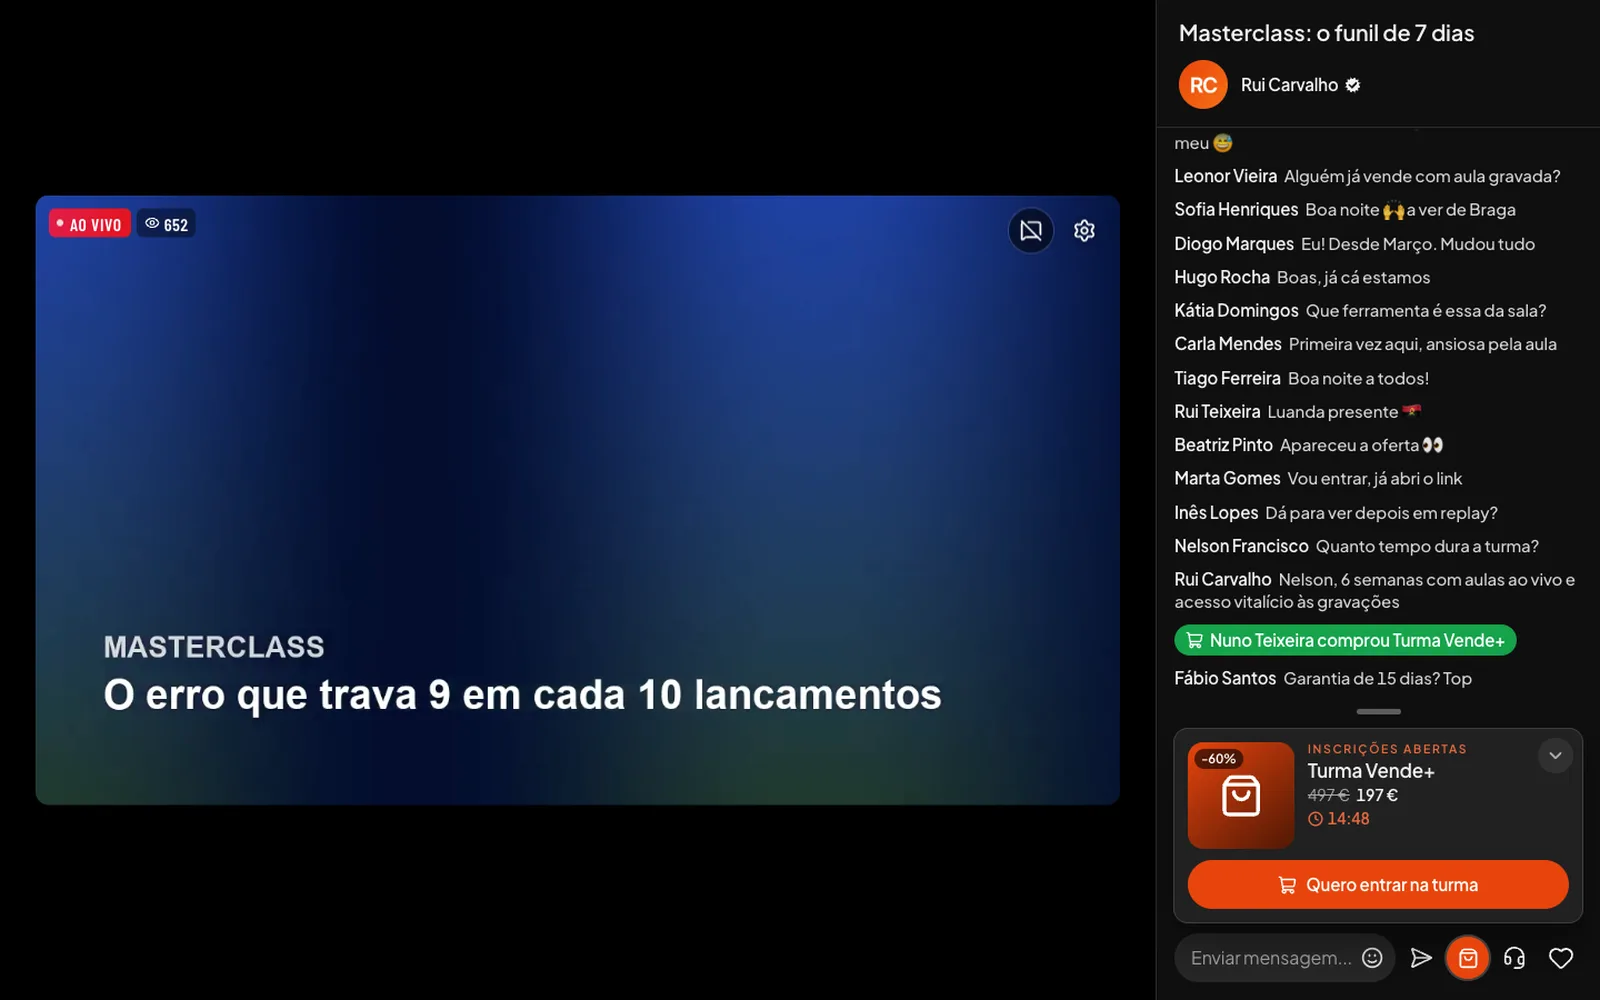
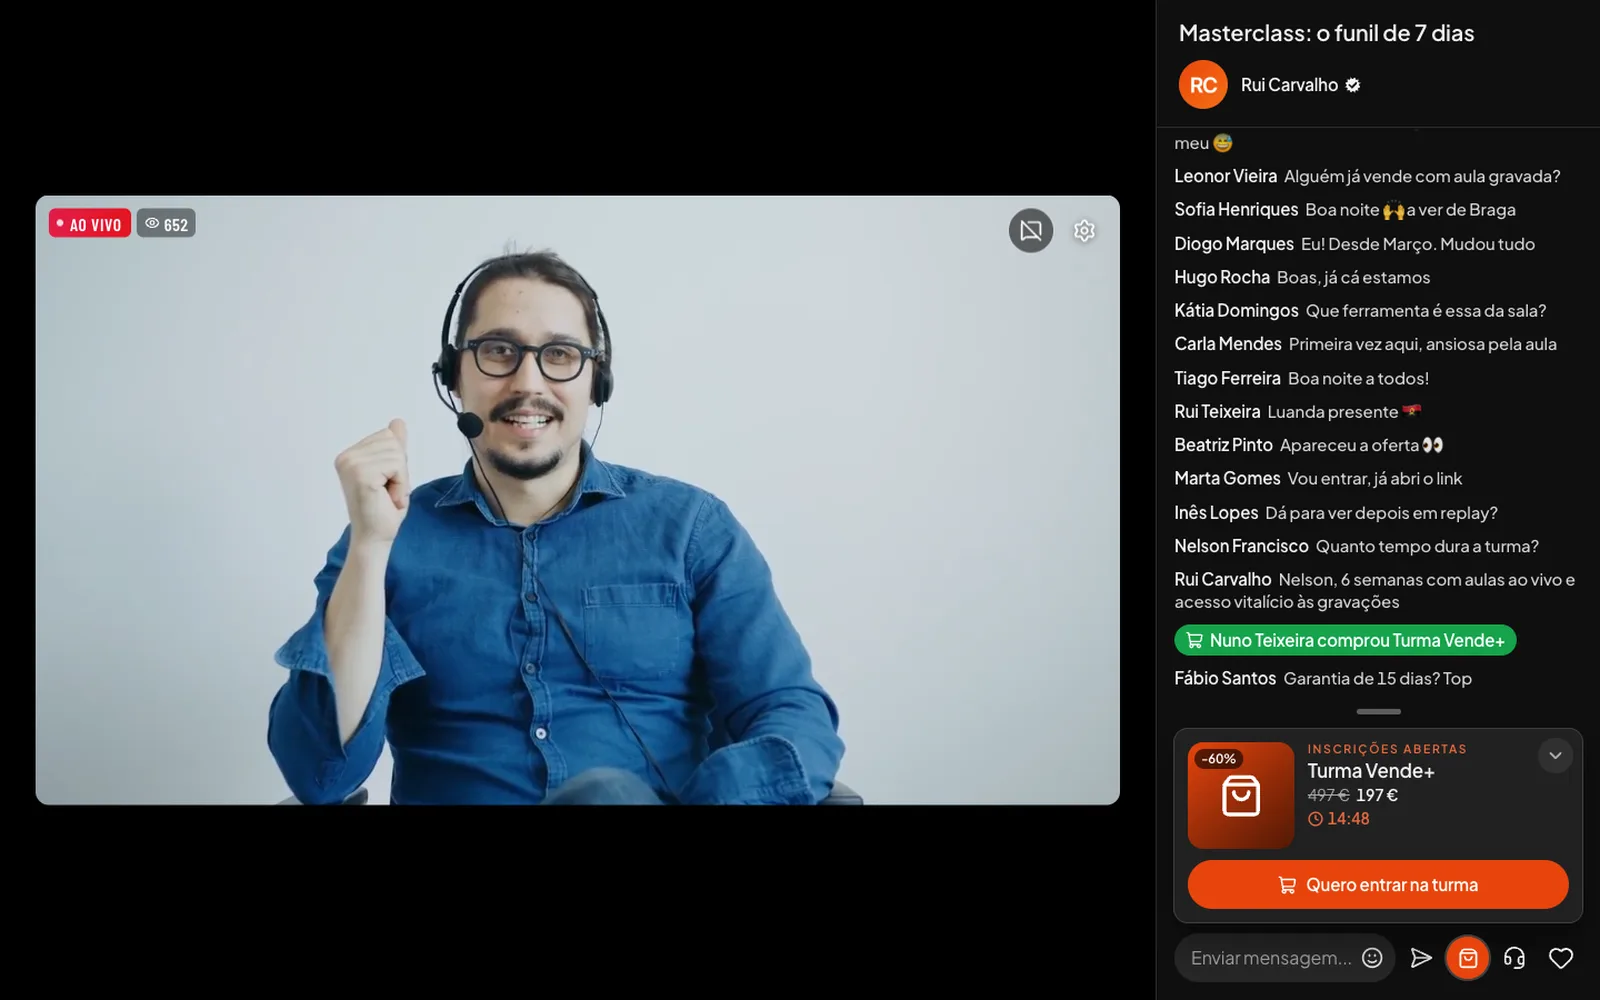
Site: capturas com apresentadores reais (Pexels) em salas diferentes, e o Live vertical com pessoa
Os vídeos de demonstração passam a ser clips da Pexels (licença livre; créditos em
src/assets/landing/CREDITOS.md): uma apresentadora em 9:16 para o formato Live e quatro apresentadores
diferentes nas outras salas. Todas as capturas do site foram refeitas com eles (sala ao vivo, oferta,
vendas, replay, inscrição, telemóvel e computador), por isso cada cartão e cada página mostra uma
pessoa e uma sala diferentes.

diff --git a/src/assets/landing/CREDITOS.md b/src/assets/landing/CREDITOS.md
@@ -1,0 +1,11 @@
+# Capturas do site
+
+As imagens desta pasta são capturas reais do Novawebinar a correr com a conta fictícia «Escola Vende+»
+(nomes, pessoas no chat e números inventados; `scripts/cenario-capturas.mjs`). Os vídeos que aparecem
+nas salas são da Pexels, licença Pexels (uso comercial livre, sem atribuição obrigatória):
+
+- Live vertical: cottonbro studio, https://www.pexels.com/video/6965116/
+- Sala «azul» (masterclass): MART PRODUCTION, https://www.pexels.com/video/7706881/
+- Sala «verde» (workshop): Theo Decker, https://www.pexels.com/video/5941016/
+- Sala «roxa» (sessão especial): Antoni Shkraba, https://www.pexels.com/video/8048449/
+- Sala de demonstração (oradora com público): Pavel Danilyuk, https://www.pexels.com/video/8716582/
